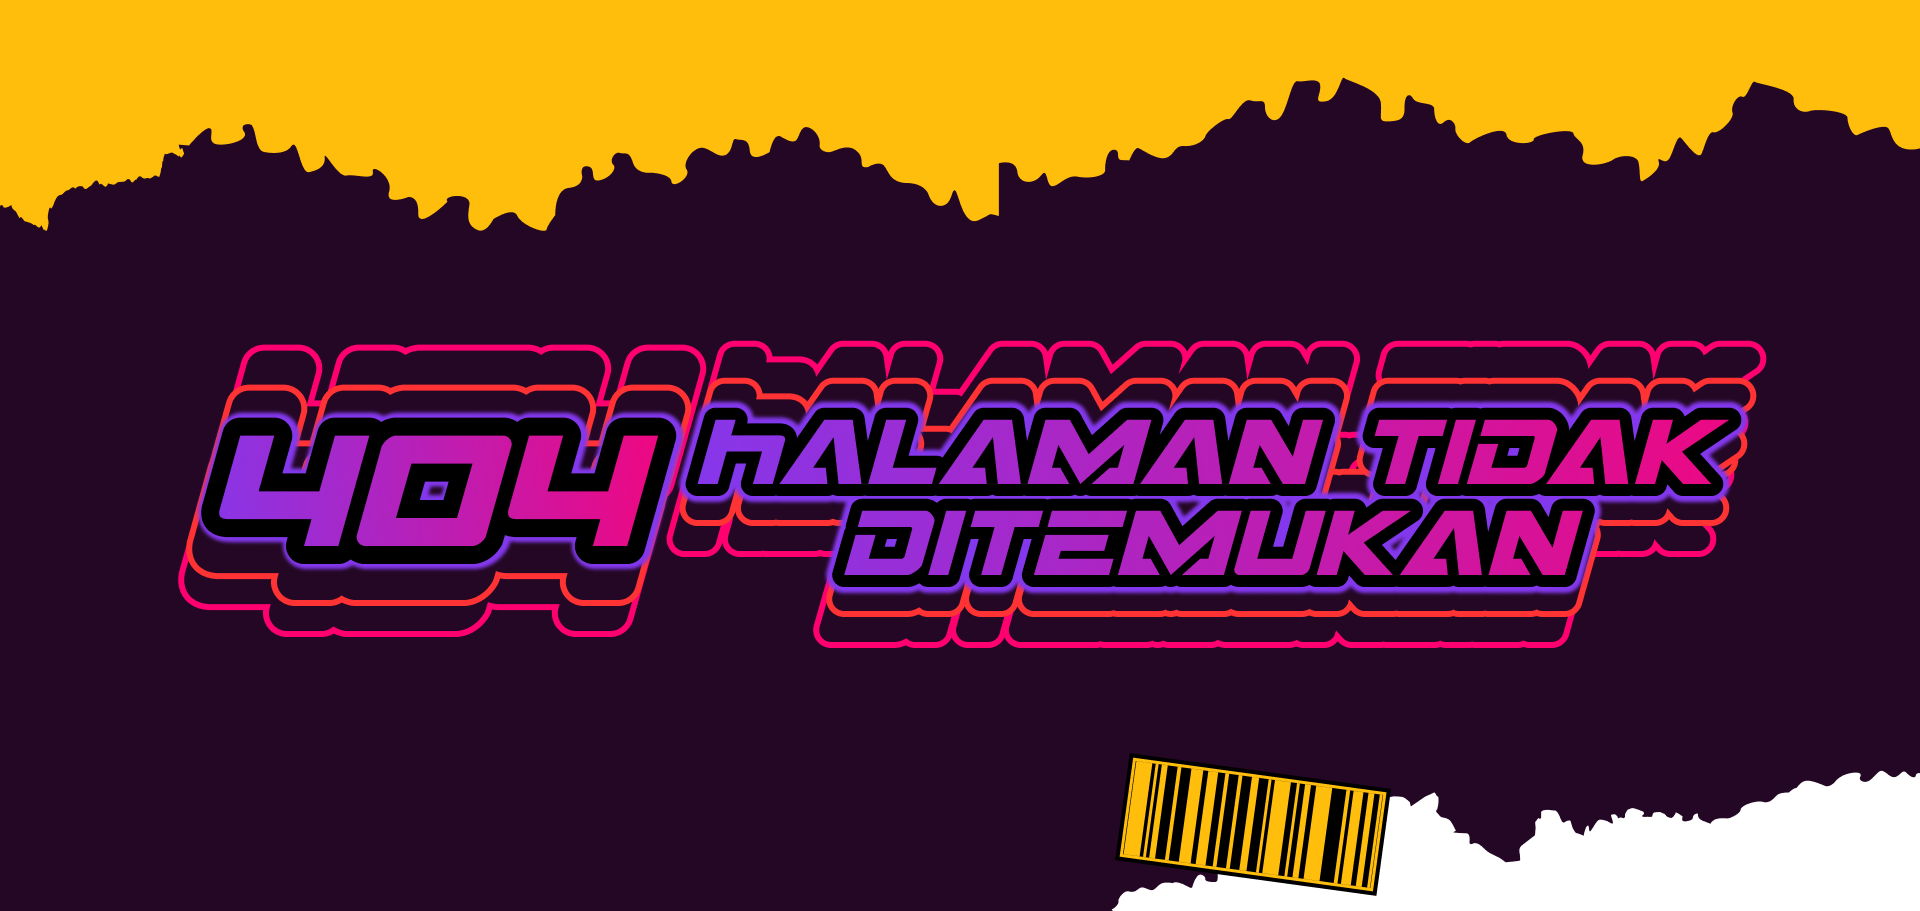
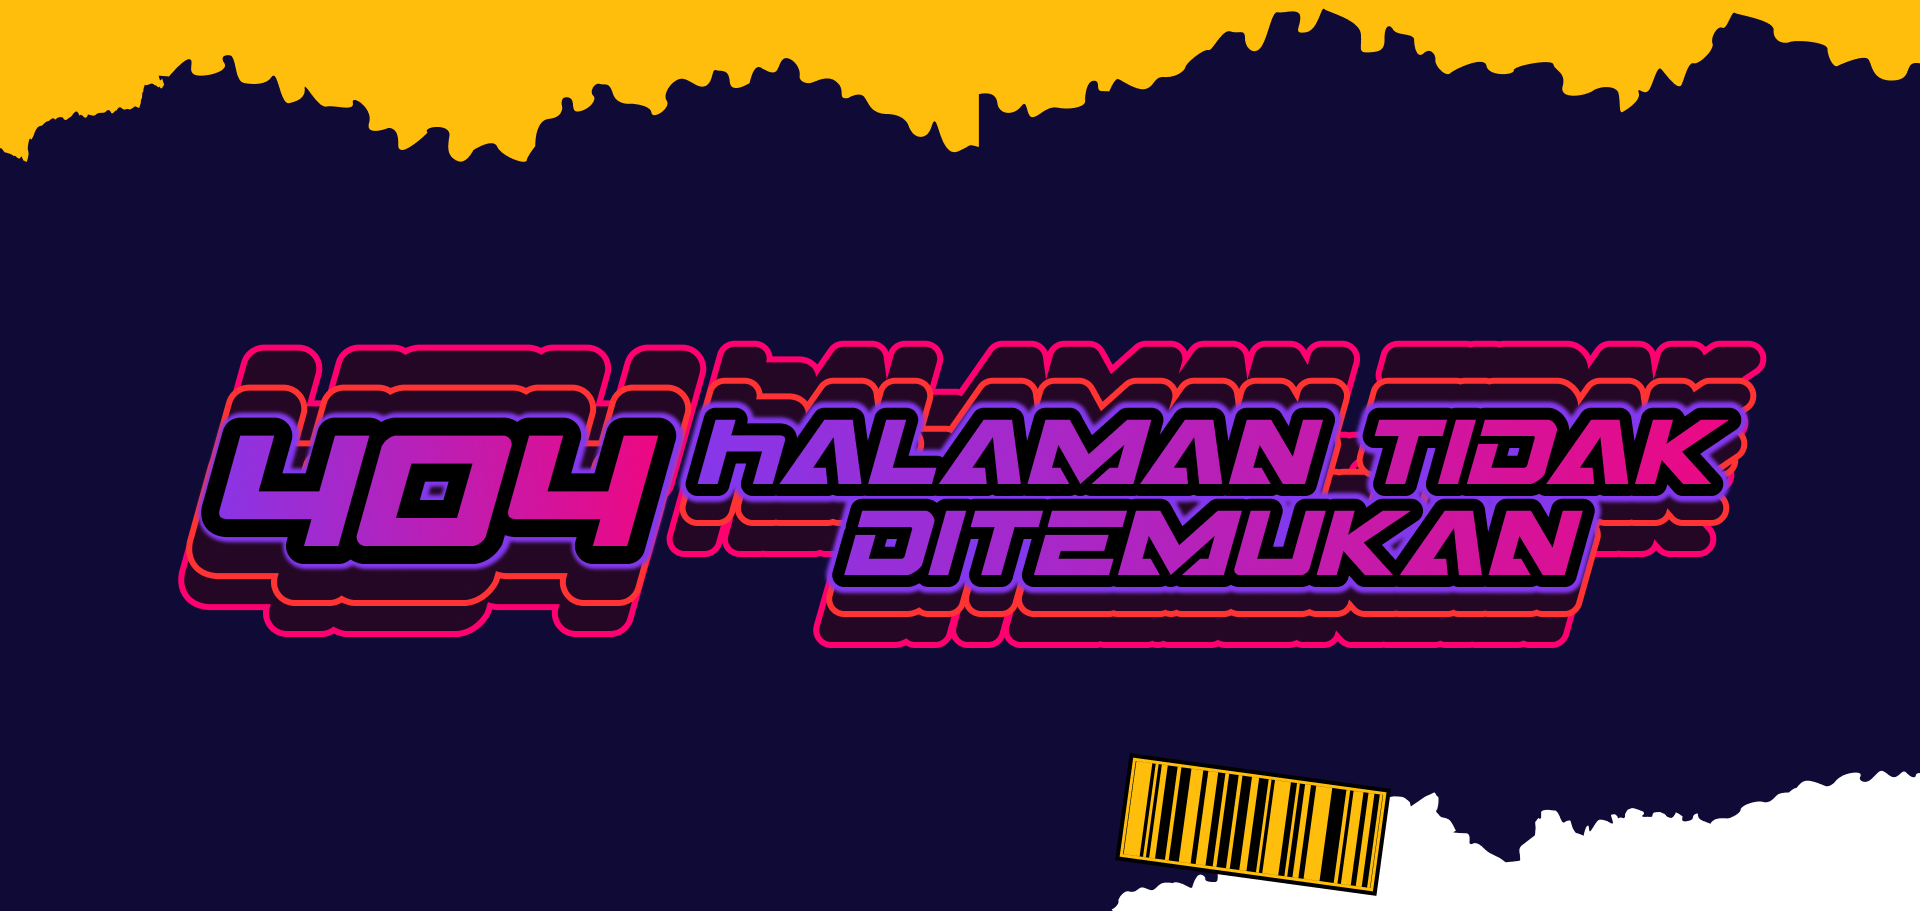
Edit 404, Navbar edited, coming soon msh otw

Changed region(s): [[0.0, 0.0, 1.0, 0.2459]]

diff --git a/components/NotFound.js b/components/NotFound.js
@@ -3,10 +3,18 @@ const NotFound = () => {
   return (
     <>
       <div className="relative overflow-hidden">
-      <img src="./Buletan.svg" className="absolute z-[10] w-[250px] -bottom-[120px] -left-[90px] animate-spin-slow" alt=""></img>
-        <img src="./Group 124.svg" className="absolute z-[10] w-[200px] -bottom-[115px] -left-[75px]" alt=""></img>
+        <img
+          src="./Buletan.svg"
+          className="absolute z-[10] w-[250px] -bottom-[120px] -left-[90px] animate-spin-slow"
+          alt=""
+        ></img>
+        <img
+          src="./Group 124.svg"
+          className="absolute z-[10] w-[200px] -bottom-[115px] -left-[75px]"
+          alt=""
+        ></img>
         <img src="./405.png" className="" alt=""></img>
-    </div>
+      </div>
     </>
   );
 };

diff --git a/components/Navbar.js b/components/Navbar.js
@@ -2,12 +2,12 @@ import React from "react";
 const Navbar = () => {
   return (
     <>
-      <div className="bg-[#240724] px-4 flex justify-between w-[100vw] fixed top-0">
+      <div className="bg-[#0A0823] px-4 flex justify-between w-[100vw] fixed top-0">
         <h3 className="text-[#FFBD0C] font-inter font-extrabold flex flex-col justify-center">
           BLASTOUT 2023
         </h3>
-        <div className="py-2 right-4 top-full static max-w-full flex">
-          <div className="mx-4 flex">
+        <div className="py-4 right-4 top-full static max-w-full flex">
+          <div className="mx-8 flex">
             <a href="#" className="text-[#FFBD0C] text-sm font-inter font-bold">
               BERANDA
             </a>

diff --git a/components/ComingSoon.js b/components/ComingSoon.js
@@ -1,0 +1,17 @@
+import React from "react";
+const ComingSoon = () => {
+  return (
+    <>
+      <div className="flex flex-col justify-center items-center w-[100vw] relative">
+        <img src="./Coming Soon.svg" className="w-full" alt=""></img>
+        <div className="absolute justify-between">
+            <img src="./Line 12.svg" className="z-[10] w-3/4" alt=""></img>            
+            <div className="z-[10] font-bold text-black text-6xl items-center" style={{'text-shadow': '0 0 3px #FF000'}}>COMING SOON</div>
+            <img src="./Line 12.svg" className="z-[10] w-3/4" alt=""></img>
+        </div>
+        </div>
+    </>
+  );
+};
+
+export default ComingSoon;

diff --git a/pages/MainEvent.js b/pages/MainEvent.js
@@ -3,6 +3,7 @@ import Head from "next/head";
 import Navbar from "../components/Navbar";
 import TombolDaftar from "../components/MainEvent/TombolDaftar";
 import Footer from "../components/Footer";
+import ComingSoon from "../components/ComingSoon";
 const MainEvent = () => {
   return (
     <>
@@ -12,6 +13,7 @@ const MainEvent = () => {
       <Navbar />
       <TombolDaftar />
       <Footer />
+      <ComingSoon/>
     </>
   );
 };

diff --git a/tailwind.config.js b/tailwind.config.js
@@ -15,7 +15,7 @@ module.exports = {
         "8xl": "90rem",
       },
       animation: {
-        'spin-slow': 'spin 10s linear infinite',
+        "spin-slow": "spin 10s linear infinite",
       },
       colors: {
         blastoutpurple: "#8338ED",

diff --git a/pages/NotFound404.js b/pages/NotFound404.js
@@ -7,7 +7,7 @@ const NotFound404 = () => {
       <Head>
         <title>404 Not Found. Blastout 2023</title>
       </Head>
-    <NotFound/>
+      <NotFound />
     </>
   );
 };
